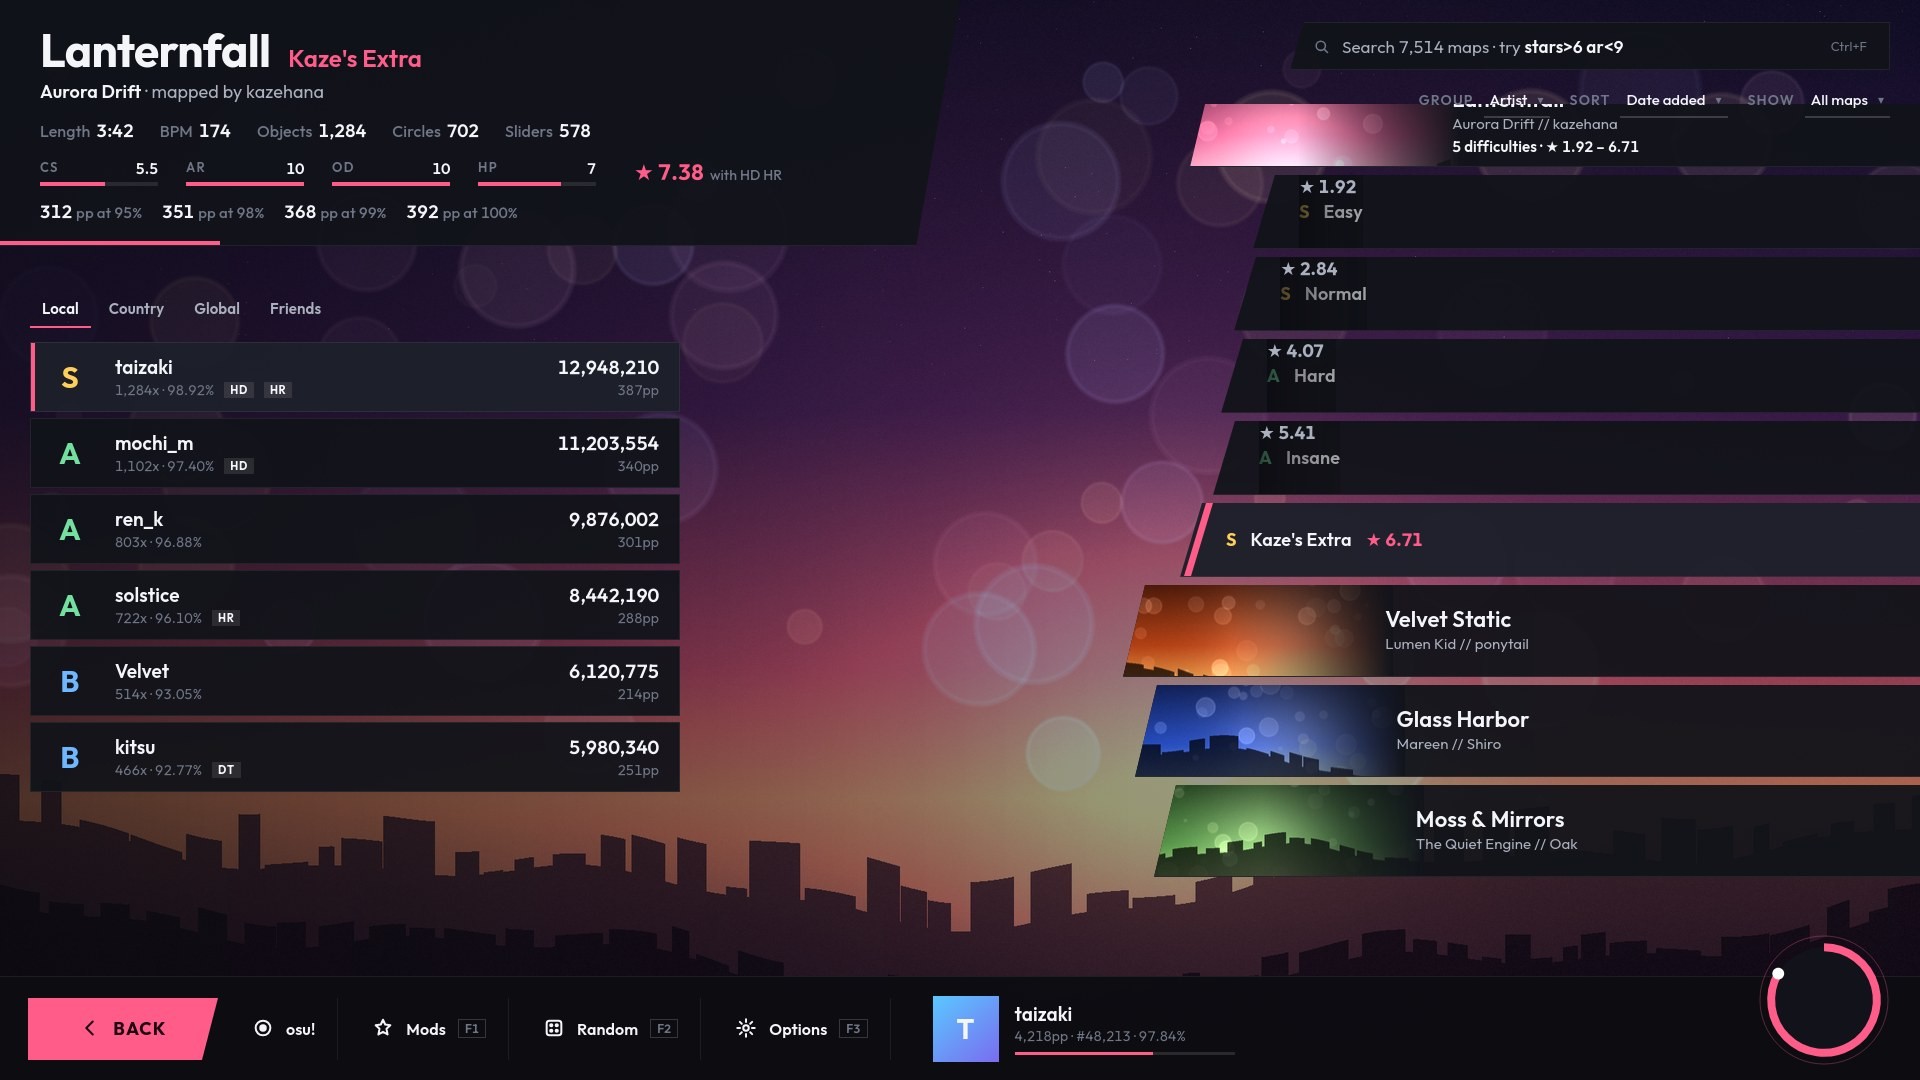
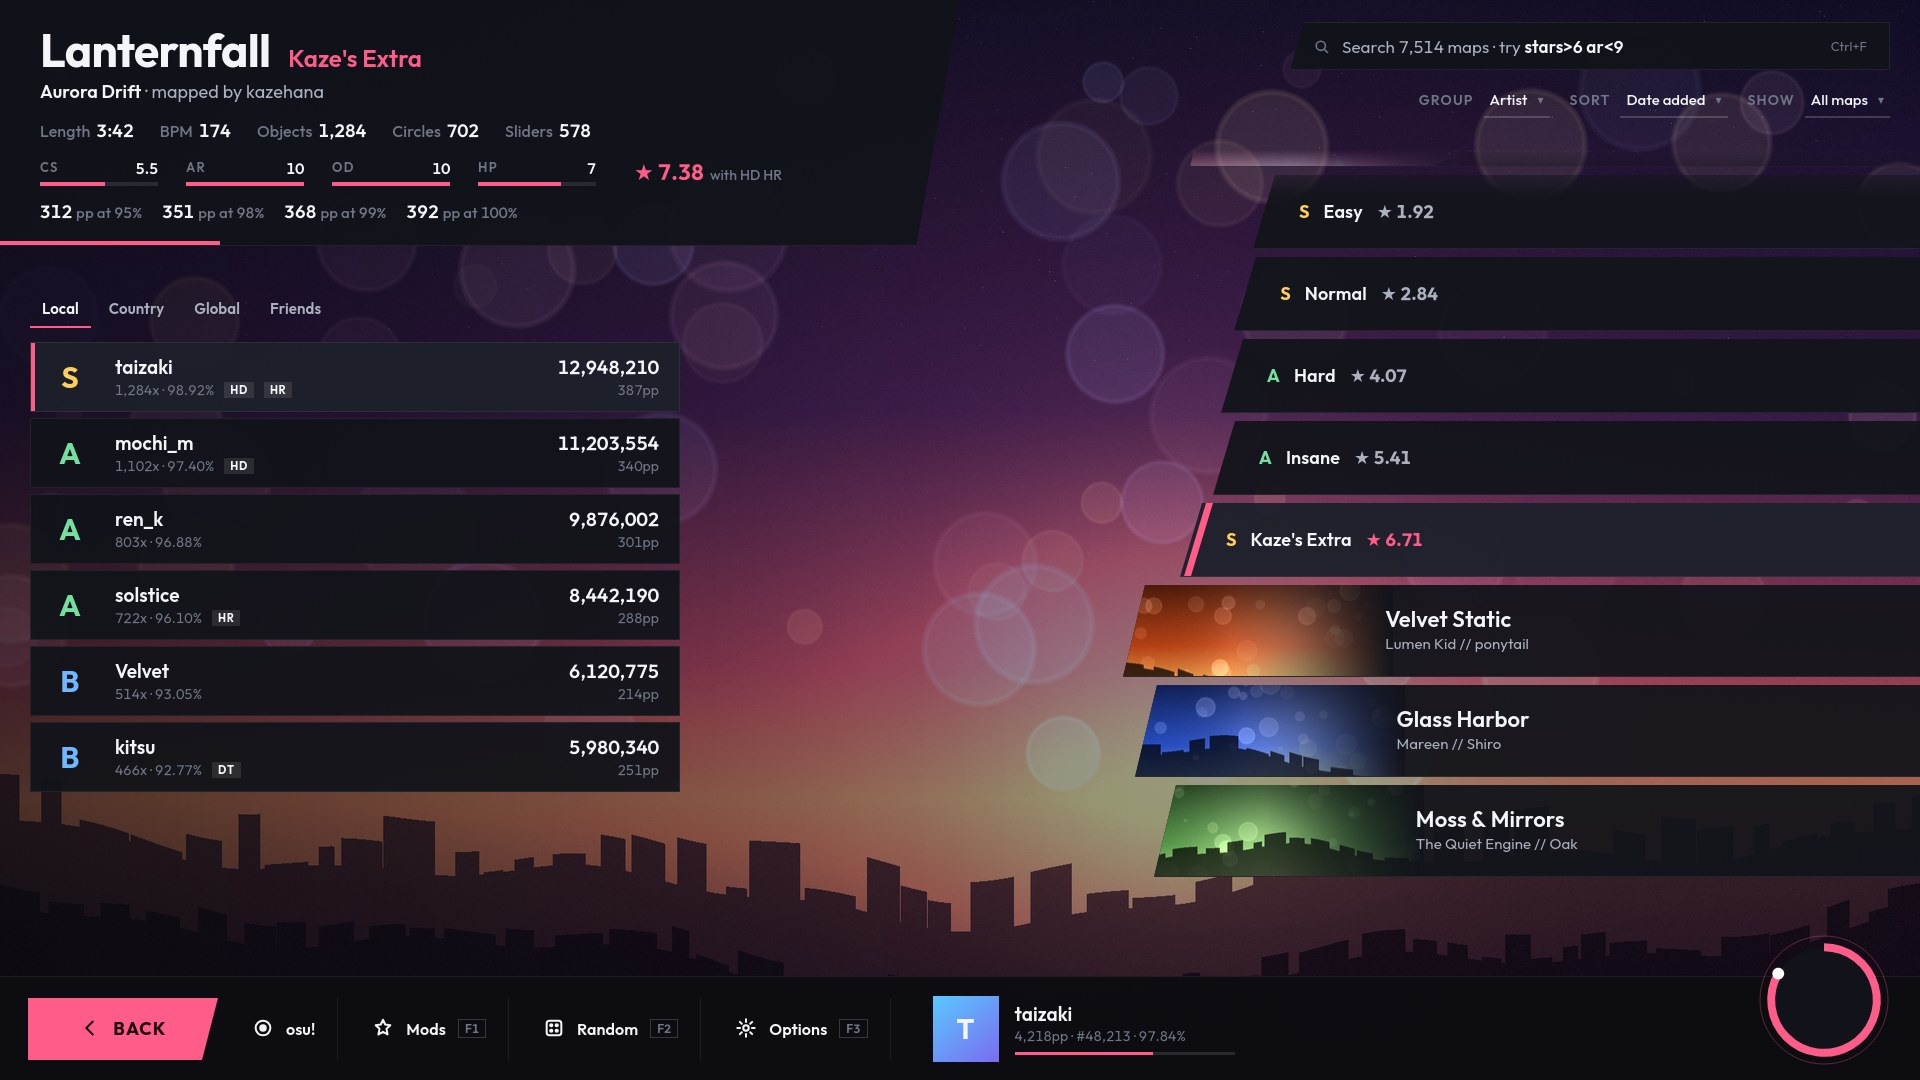
Design round 2 mockups: slanted shapes, Outfit, flat dark panels
Three variants of osu!stable's layout with the user's picks from lazer's
styling: slanted everything (1), slanted controls with a background-derived
accent (2), slanted accents only (3). Fixes the carousel/header overlap and
a class-name clash that broke the difficulty rows.

diff --git a/docs/renovation/mockups/src/modern.css b/docs/renovation/mockups/src/modern.css
@@ -106,7 +106,8 @@ svg.i { width: 1em; height: 1em; fill: none; stroke: currentColor; stroke-width:
 .num small { font-size: 14px; color: var(--ink-3); }
 .mod { font-size: 11px; font-weight: 700; padding: 1px 6px; letter-spacing: 0.06em; color: var(--ink); background: rgba(255, 255, 255, 0.1); }
 
-.carousel { position: absolute; right: 0; top: 104px; width: 1040px; height: 862px; overflow: hidden; }
+.carousel { position: absolute; right: 0; top: 150px; width: 1040px; height: 816px; overflow: hidden; }
+.carousel { -webkit-mask-image: linear-gradient(transparent, #000 46px, #000 calc(100% - 30px), transparent); mask-image: linear-gradient(transparent, #000 46px, #000 calc(100% - 30px), transparent); }
 .panel { position: absolute; right: -60px; height: 92px; width: 860px; background: var(--panel); border: 1px solid var(--line); overflow: hidden; transform: skewX(var(--skew)); }
 .panel .art { position: absolute; left: -30px; top: -1px; bottom: -1px; width: 270px; background-size: cover; background-position: center; transform: skewX(var(--unskew)); }
 .panel .art::after { content: ""; position: absolute; inset: 0; background: linear-gradient(90deg, rgba(0,0,0,0) 40%, var(--fade, rgba(17,19,26,1)) 100%); }
@@ -116,7 +117,7 @@ svg.i { width: 1em; height: 1em; fill: none; stroke: currentColor; stroke-width:
 .panel .a { font-size: 15px; color: var(--ink-2); white-space: nowrap; }
 .panel .d { font-size: 15px; font-weight: 600; margin-top: 3px; display: flex; gap: 14px; align-items: center; white-space: nowrap; }
 .panel .sr { color: var(--accent); font-weight: 700; }
-.panel .sr.dim { color: var(--ink-2); }
+.panel .sr.muted { color: var(--ink-2); }
 .panel .rk { font-weight: 700; }
 .panel.diff { height: 74px; width: 800px; }
 .panel.diff .art { display: none; }

diff --git a/docs/renovation/mockups/src/songselect2.html b/docs/renovation/mockups/src/songselect2.html
@@ -65,7 +65,7 @@ const items = [
   { k: "set", t: "Moss & Mirrors", a: "The Quiet Engine // Oak", art: "moss" },
 ];
 const carousel = document.getElementById("carousel");
-const centre = 436;           // relative to the carousel's top (540 on screen)
+const centre = 390;           // relative to the carousel's top (540 on screen)
 const heights = items.map((it) => (it.k === "diff" ? 74 : 92));
 const selIndex = items.findIndex((it) => it.sel);
 // lay out top-down so the selected panel's centre lands on `centre`
@@ -80,7 +80,7 @@ items.forEach((it, i) => {
   el.className = `panel ${it.k}${it.sel ? " sel" : ""}`;
   el.style.top = yPos + "px";
   el.style.right = (-60 - drift) + "px";
-  const sr = it.sr ? `<span class="sr${it.sel ? "" : " dim"}">&#9733; ${it.sr.toFixed(2)}</span>` : "";
+  const sr = it.sr ? `<span class="sr${it.sel ? "" : " muted"}">&#9733; ${it.sr.toFixed(2)}</span>` : "";
   const rk = it.rank ? `<span class="rk g-${it.rank.toLowerCase()}">${it.rank}</span>` : "";
   el.innerHTML = `<div class="art" style="background-image:url(art/thumb-${it.art || "rose"}.png)"></div>
     <div class="txt"><div class="t">${it.t || ""}</div><div class="a">${it.a || ""}</div>
